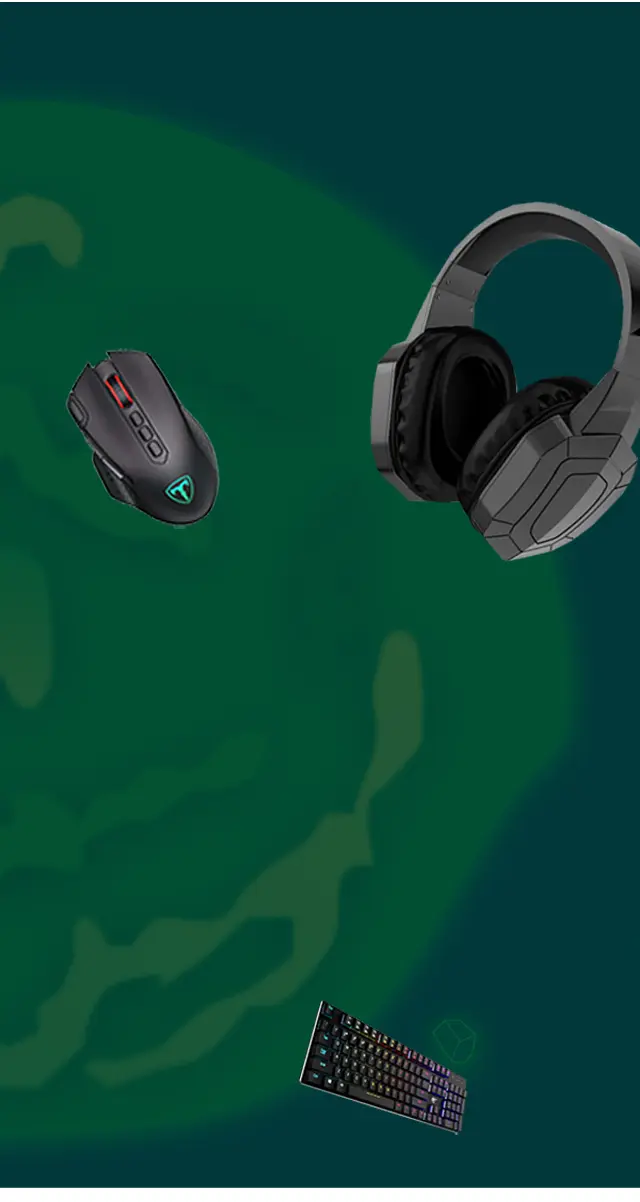
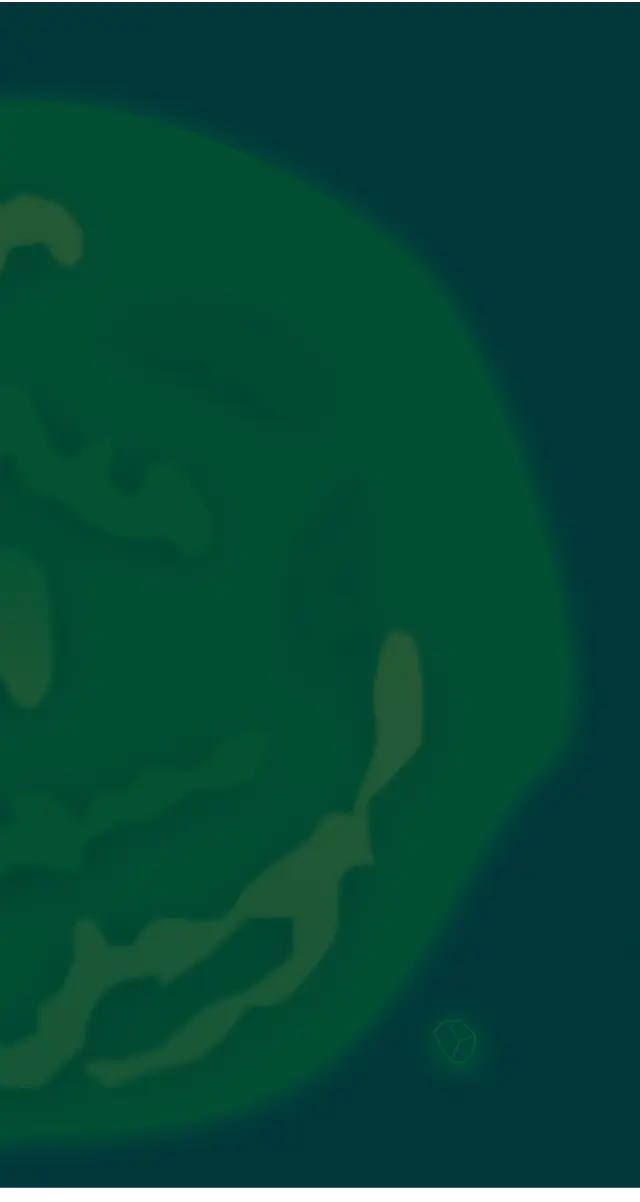
f b

Changed region(s): [[0.5625, 0.1539, 1.0, 0.4925], [0.0938, 0.277, 0.3438, 0.4617], [0.4688, 0.8311, 0.75, 0.9542]]

diff --git a/css/main.min.css b/css/main.min.css
@@ -1,1 +1,1 @@
-.container{margin-left:auto;margin-right:auto}body{font-family:"Roboto",sans-serif;font-weight:400;font-size:16px;line-height:19px;color:#fff;background-color:#01383a}.container{width:100%;padding-left:16px;padding-right:16px}@media screen and (min-width: 768px){.container .container{width:738px;padding-left:40px;padding-right:40px}}@media screen and (min-width: 1280px){.container .container{width:1280px}}p,h1,h2,h3,h4,h5,h6{margin:0}ul{margin:0;padding-left:0;list-style:none}img{display:block;max-width:100%;height:auto}a{text-decoration:none}.visually-hidden{position:absolute;white-space:nowrap;width:1px;height:1px;overflow:hidden;border:0;padding:0;clip:rect(0 0 0 0);-webkit-clip-path:inset(50%);clip-path:inset(50%);margin:-1px}.container{padding:0}.hero{width:320px;height:100vh;text-align:center;padding-top:284px;padding-left:36px}@media screen and (min-width: 480px){.hero{width:480px}}@media screen and (min-width: 768px){.hero{width:768px;text-align:left;padding-top:190px;padding-left:20px}}@media screen and (min-width: 1280px){.hero{width:1280px;padding-top:280px;padding-left:110px}}.background{width:100vw;height:100hw;background-color:rgba(0,0,0,0);background-repeat:no-repeat;background-size:60px 99px,150px 186px,88px 42px,cover;-webkit-transform:rotate(-29deg),rotate(28deg),rotate(24deg),0;transform:rotate(-29deg),rotate(28deg),rotate(24deg),0;background-position:162px 16px,56px 140px,394px 150px,center;background-image:url("../images/main/mouse-1x.webp"),url("../images/main/headphones-1x.webp"),url("../images/main/pckeyboard-1x.webp"),url("../images/main/hero-mob-1x.webp")}@media screen and (min-device-pixel-ratio: 2),screen and (-webkit-min-device-pixel-ratio: 2),screen and (min-resolution: 192dpi),screen and (min-resolution: 2dppx){.background{background-image:url("../images/main/mouse-2x.webp"),url("../images/main/headphones-2x.webp"),url("../images/main/pckeyboard-2x.webp"),url("../images/main/hero-mob-2x.webp")}}@media screen and (min-width: 768px){.background{width:100vw;height:100hw;background-size:100px 165px,180px 223px,143px 69px,cover;-webkit-transform:rotate(-31.92deg),rotate(10.77deg),rotate(21.68deg),0;transform:rotate(-31.92deg),rotate(10.77deg),rotate(21.68deg),0;background-position:41px 68.87px,195px 400px,615px 421px,center;background-image:url("../images/main/mouse-1x.webp"),url("../images/main/headphones-1x.webp"),url("../images/main/pckeyboard-1x.webp"),url("../images/main/hero-tab-1x.webp")}}@media screen and (min-width: 768px)and (min-device-pixel-ratio: 2),screen and (min-width: 768px)and (-webkit-min-device-pixel-ratio: 2),screen and (min-width: 768px)and (min-resolution: 192dpi),screen and (min-width: 768px)and (min-resolution: 2dppx){.background{background-image:url("../images/main/mouse-2x.webp"),url("../images/main/headphones-2x.webp"),url("../images/main/pckeyboard-2x.webp"),url("../images/main/hero-tab-2x.webp")}}@media screen and (min-width: 1200px){.background{width:1280px;background-size:133px 220px,270px 335px,230px 111px,cover;-webkit-transform:rotate(-34deg),rotate(18deg),rotate(30deg),0;transform:rotate(-34deg),rotate(18deg),rotate(30deg),0;background-position:205px 589px,300px 829px,567px 578px,center;background-image:url("../images/main/mouse-1x.webp"),url("../images/main/headphones-1x.webp"),url("../images/main/pckeyboard-1x.webp"),url("../images/main/hero-1x.webp")}}@media screen and (min-width: 1200px)and (min-device-pixel-ratio: 2),screen and (min-width: 1200px)and (-webkit-min-device-pixel-ratio: 2),screen and (min-width: 1200px)and (min-resolution: 192dpi),screen and (min-width: 1200px)and (min-resolution: 2dppx){.background{background-image:url("../images/main/mouse-2x.webp"),url("../images/main/headphones-2x.webp"),url("../images/main/pckeyboard-2x.webp"),url("../images/main/hero-2x.webp")}}.title{width:270px;height:114px;font-weight:600;font-size:32px;line-height:1.1875;color:#fff;margin-left:auto;margin-right:auto}@media screen and (min-width: 768px){.title{width:399px;height:198px;font-weight:600;font-size:56px;line-height:1.0714285714;margin-left:20px;margin-right:auto}}@media screen and (min-width: 1280px){.title{width:515px;height:225px;font-weight:600;font-size:64px;line-height:1.171875}}.titile-one{display:inline}@media screen and (min-width: 768px){.titile-one{display:none}}.titile-two{display:none}@media screen and (min-width: 768px){.titile-two{display:inline}}.link{display:-webkit-box;display:-ms-flexbox;display:flex;-webkit-box-orient:horizontal;-webkit-box-direction:normal;-ms-flex-direction:row;flex-direction:row;-webkit-box-pack:center;-ms-flex-pack:center;justify-content:center;-webkit-box-align:center;-ms-flex-align:center;align-items:center;gap:10px;width:173px;height:51px;border-radius:16px;border:none;background-color:#86e543;padding:16px 0;margin-top:25px;margin-left:auto;margin-right:auto;margin-bottom:102px;font-weight:700;font-size:16px;line-height:1.1875;text-transform:uppercase;color:#01383a}@media screen and (min-width: 768px){.link{font-weight:700;font-size:18px;line-height:1.1666666667;width:173px;height:51px;margin-top:64px;margin-left:20px;margin-bottom:128px}}@media screen and (min-width: 1280px){.link{font-weight:700;font-size:28px;line-height:1.0714285714;width:306px;height:70px;margin-top:40px;margin-left:50px;margin-bottom:209px}}/*# sourceMappingURL=main.min.css.map */
+.container{margin-left:auto;margin-right:auto}body{font-family:"Roboto",sans-serif;font-weight:400;font-size:16px;line-height:19px;color:#fff;background-color:#01383a}.container{width:100%;padding-left:16px;padding-right:16px}@media screen and (min-width: 768px){.container .container{width:738px;padding-left:40px;padding-right:40px}}@media screen and (min-width: 1280px){.container .container{width:1280px}}p,h1,h2,h3,h4,h5,h6{margin:0}ul{margin:0;padding-left:0;list-style:none}img{display:block;max-width:100%;height:auto}a{text-decoration:none}.visually-hidden{position:absolute;white-space:nowrap;width:1px;height:1px;overflow:hidden;border:0;padding:0;clip:rect(0 0 0 0);-webkit-clip-path:inset(50%);clip-path:inset(50%);margin:-1px}.container{padding:0}.hero{width:320px;height:100vh;text-align:center;padding-top:284px;padding-left:36px}@media screen and (min-width: 480px){.hero{width:480px}}@media screen and (min-width: 768px){.hero{width:768px;text-align:left;padding-top:190px;padding-left:20px}}@media screen and (min-width: 1280px){.hero{width:1280px;padding-top:280px;padding-left:110px}}.background{width:100vw;height:100hw;background-color:rgba(0,0,0,0);background-repeat:no-repeat;background-size:60px 99px,150px 186px,88px 42px,cover;-webkit-transform:rotate(-29deg),rotate(28deg),rotate(24deg),0;transform:rotate(-29deg),rotate(28deg),rotate(24deg),0;background-position:16px 162px,140px 56px,150px 394px,center;background-image:url("../images/main/mouse-1x.webp"),url("../images/main/headphones-1x.webp"),url("../images/main/pckeyboard-1x.webp"),url("../images/main/hero-mob-1x.webp")}@media(min-device-pixel-ratio: 2),(-webkit-min-device-pixel-ratio: 2),(min-resolution: 192dpi),(min-resolution: 2dppx){.background{background-image:url(../images/hero-main-480px@2x.webp);background-image:url("../images/main/mouse-2x.webp"),url("../images/main/headphones-2x.webp"),url("../images/main/pckeyboard-2x.webp"),url("../images/main/hero-mob-2x.webp")}}@media screen and (min-width: 768px){.background{width:100vw;height:100hw;background-size:100px 165px,180px 223px,143px 69px,cover;-webkit-transform:rotate(-31.92deg),rotate(10.77deg),rotate(21.68deg),0;transform:rotate(-31.92deg),rotate(10.77deg),rotate(21.68deg),0;background-position:68.87px 41px,400px 195px,421px 615px,center;background-image:url("../images/main/mouse-1x.webp"),url("../images/main/headphones-1x.webp"),url("../images/main/pckeyboard-1x.webp"),url("../images/main/hero-tab-1x.webp")}}@media screen and (min-width: 768px)and (min-device-pixel-ratio: 2),screen and (min-width: 768px)and (-webkit-min-device-pixel-ratio: 2),screen and (min-width: 768px)and (min-resolution: 192dpi),screen and (min-width: 768px)and (min-resolution: 2dppx){.background{background-image:url(../images/hero-main-768px@2x.webp);background-image:url("../images/main/mouse-2x.webp"),url("../images/main/headphones-2x.webp"),url("../images/main/pckeyboard-2x.webp"),url("../images/main/hero-tab-2x.webp")}}@media screen and (min-width: 1280px){.background{width:1280px;background-size:133px 220px,270px 335px,230px 111px,cover;-webkit-transform:rotate(-34deg),rotate(18deg),rotate(30deg),0;transform:rotate(-34deg),rotate(18deg),rotate(30deg),0;background-position:589px 205px,829px 300px,578px 567px,center;background-image:url("../images/main/mouse-1x.webp"),url("../images/main/headphones-1x.webp"),url("../images/main/pckeyboard-1x.webp"),url("../images/main/hero-1x.webp")}}@media screen and (min-width: 1280px)and (min-device-pixel-ratio: 2),screen and (min-width: 1280px)and (-webkit-min-device-pixel-ratio: 2),screen and (min-width: 1280px)and (min-resolution: 192dpi),screen and (min-width: 1280px)and (min-resolution: 2dppx){.background{background-image:url(../images/hero-main-1280px@2x.webp);background-image:url("../images/main/mouse-2x.webp"),url("../images/main/headphones-2x.webp"),url("../images/main/pckeyboard-2x.webp"),url("../images/main/hero-2x.webp")}}.title{width:270px;height:114px;font-weight:600;font-size:32px;line-height:1.1875;color:#fff;margin-left:auto;margin-right:auto}@media screen and (min-width: 768px){.title{width:399px;height:198px;font-weight:600;font-size:56px;line-height:1.0714285714;margin-left:20px;margin-right:auto}}@media screen and (min-width: 1280px){.title{width:515px;height:225px;font-weight:600;font-size:64px;line-height:1.171875}}.titile-one{display:inline}@media screen and (min-width: 768px){.titile-one{display:none}}.titile-two{display:none}@media screen and (min-width: 768px){.titile-two{display:inline}}.link{display:-webkit-box;display:-ms-flexbox;display:flex;-webkit-box-orient:horizontal;-webkit-box-direction:normal;-ms-flex-direction:row;flex-direction:row;-webkit-box-pack:center;-ms-flex-pack:center;justify-content:center;-webkit-box-align:center;-ms-flex-align:center;align-items:center;gap:10px;width:173px;height:51px;border-radius:16px;border:none;background-color:#86e543;padding:16px 0;margin-top:25px;margin-left:auto;margin-right:auto;margin-bottom:102px;font-weight:700;font-size:16px;line-height:1.1875;text-transform:uppercase;color:#01383a}@media screen and (min-width: 768px){.link{font-weight:700;font-size:18px;line-height:1.1666666667;width:173px;height:51px;margin-top:64px;margin-left:20px;margin-bottom:128px}}@media screen and (min-width: 1280px){.link{font-weight:700;font-size:28px;line-height:1.0714285714;width:306px;height:70px;margin-top:40px;margin-left:50px;margin-bottom:209px}}/*# sourceMappingURL=main.min.css.map */

diff --git a/sass/layout/_hero.scss b/sass/layout/_hero.scss
@@ -34,19 +34,19 @@
     background-repeat: no-repeat;
     background-size: 60px 99px, 150px 186px, 88px 42px, cover;
     transform: rotate(-29deg), rotate(28deg), rotate(24deg), 0;
-    background-position: 162px 16px, 56px 140px, 394px 150px, center;
+    background-position: 16px 162px, 140px 56px, 150px 394px, center;
     background-image:
         url('../images/main/mouse-1x.webp'),
         url('../images/main/headphones-1x.webp'),
         url('../images/main/pckeyboard-1x.webp'),
         url('../images/main/hero-mob-1x.webp');
 
-    @include retina {
-        background-image:
-            url('../images/main/mouse-2x.webp'),
-            url('../images/main/headphones-2x.webp'),
-            url('../images/main/pckeyboard-2x.webp'),
-            url('../images/main/hero-mob-2x.webp');
+    @include retina(hero-main, $mobile, webp) {
+        background-image: 
+        url('../images/#{main}/#{mouse-2x}.#{webp}'),
+        url('../images/#{main}/#{headphones-2x}.#{webp}'),
+        url('../images/#{main}/#{pckeyboard-2x}.#{webp}'),
+        url('../images/#{main}/#{hero-mob-2x}.#{webp}');
     }
 
     @media screen and (min-width: 768px) {
@@ -54,42 +54,43 @@
         height: 100hw;
         background-size: 100px 165px, 180px 223px, 143px 69px, cover;
         transform: rotate(-31.92deg), rotate(10.77deg), rotate(21.68deg), 0;
-        background-position: 41px 68.87px, 195px 400px, 615px 421px, center;
+        background-position: 68.87px 41px, 400px 195px, 421px 615px, center;
         background-image:
             url('../images/main/mouse-1x.webp'),
             url('../images/main/headphones-1x.webp'),
             url('../images/main/pckeyboard-1x.webp'),
             url('../images/main/hero-tab-1x.webp');
 
-        @include retina {
-            background-image:
-                url('../images/main/mouse-2x.webp'),
-                url('../images/main/headphones-2x.webp'),
-                url('../images/main/pckeyboard-2x.webp'),
-                url('../images/main/hero-tab-2x.webp');
+        @include retina(hero-main, $tablet, webp) {
+            background-image: 
+            url('../images/#{main}/#{mouse-2x}.#{webp}'),
+            url('../images/#{main}/#{headphones-2x}.#{webp}'),
+            url('../images/#{main}/#{pckeyboard-2x}.#{webp}'),
+            url('../images/#{main}/#{hero-tab-2x}.#{webp}');
         }
     }
 
-    @media screen and (min-width: 1200px) {
+    @media screen and (min-width: 1280px) {
         width: $desktop;
         // mix-blend-mode: luminosity;
         // opacity: 0.25;
         // filter: drop-shadow(0px 4px 25px #5EEC36);
         background-size: 133px 220px, 270px 335px, 230px 111px, cover;
         transform: rotate(-34deg), rotate(18deg), rotate(30deg), 0;
-        background-position: 205px 589px, 300px 829px, 567px 578px, center;
+        background-position: 589px 205px, 829px 300px, 578px 567px, center;
         background-image:
+            // url('../images/main/Vector8-1x.webp'),
             url('../images/main/mouse-1x.webp'),
             url('../images/main/headphones-1x.webp'),
             url('../images/main/pckeyboard-1x.webp'),
             url('../images/main/hero-1x.webp');
 
-        @include retina {
-            background-image:
-                url('../images/main/mouse-2x.webp'),
-                url('../images/main/headphones-2x.webp'),
-                url('../images/main/pckeyboard-2x.webp'),
-                url('../images/main/hero-2x.webp');
+        @include retina(hero-main, $desktop, webp) {
+            background-image: 
+            url('../images/#{main}/#{mouse-2x}.#{webp}'),
+            url('../images/#{main}/#{headphones-2x}.#{webp}'),
+            url('../images/#{main}/#{pckeyboard-2x}.#{webp}'),
+            url('../images/#{main}/#{hero-2x}.#{webp}');
         }
     }
 }

diff --git a/css/main.css b/css/main.css
@@ -110,11 +110,12 @@ a {
   background-size: 60px 99px, 150px 186px, 88px 42px, cover;
   -webkit-transform: rotate(-29deg), rotate(28deg), rotate(24deg), 0;
           transform: rotate(-29deg), rotate(28deg), rotate(24deg), 0;
-  background-position: 162px 16px, 56px 140px, 394px 150px, center;
+  background-position: 16px 162px, 140px 56px, 150px 394px, center;
   background-image: url("../images/main/mouse-1x.webp"), url("../images/main/headphones-1x.webp"), url("../images/main/pckeyboard-1x.webp"), url("../images/main/hero-mob-1x.webp");
 }
-@media screen and (min-device-pixel-ratio: 2), screen and (-webkit-min-device-pixel-ratio: 2), screen and (min-resolution: 192dpi), screen and (min-resolution: 2dppx) {
+@media (min-device-pixel-ratio: 2), (-webkit-min-device-pixel-ratio: 2), (min-resolution: 192dpi), (min-resolution: 2dppx) {
   .background {
+    background-image: url(../images/hero-main-480px@2x.webp);
     background-image: url("../images/main/mouse-2x.webp"), url("../images/main/headphones-2x.webp"), url("../images/main/pckeyboard-2x.webp"), url("../images/main/hero-mob-2x.webp");
   }
 }
@@ -125,27 +126,29 @@ a {
     background-size: 100px 165px, 180px 223px, 143px 69px, cover;
     -webkit-transform: rotate(-31.92deg), rotate(10.77deg), rotate(21.68deg), 0;
             transform: rotate(-31.92deg), rotate(10.77deg), rotate(21.68deg), 0;
-    background-position: 41px 68.87px, 195px 400px, 615px 421px, center;
+    background-position: 68.87px 41px, 400px 195px, 421px 615px, center;
     background-image: url("../images/main/mouse-1x.webp"), url("../images/main/headphones-1x.webp"), url("../images/main/pckeyboard-1x.webp"), url("../images/main/hero-tab-1x.webp");
   }
 }
 @media screen and (min-width: 768px) and (min-device-pixel-ratio: 2), screen and (min-width: 768px) and (-webkit-min-device-pixel-ratio: 2), screen and (min-width: 768px) and (min-resolution: 192dpi), screen and (min-width: 768px) and (min-resolution: 2dppx) {
   .background {
+    background-image: url(../images/hero-main-768px@2x.webp);
     background-image: url("../images/main/mouse-2x.webp"), url("../images/main/headphones-2x.webp"), url("../images/main/pckeyboard-2x.webp"), url("../images/main/hero-tab-2x.webp");
   }
 }
-@media screen and (min-width: 1200px) {
+@media screen and (min-width: 1280px) {
   .background {
     width: 1280px;
     background-size: 133px 220px, 270px 335px, 230px 111px, cover;
     -webkit-transform: rotate(-34deg), rotate(18deg), rotate(30deg), 0;
             transform: rotate(-34deg), rotate(18deg), rotate(30deg), 0;
-    background-position: 205px 589px, 300px 829px, 567px 578px, center;
+    background-position: 589px 205px, 829px 300px, 578px 567px, center;
     background-image: url("../images/main/mouse-1x.webp"), url("../images/main/headphones-1x.webp"), url("../images/main/pckeyboard-1x.webp"), url("../images/main/hero-1x.webp");
   }
 }
-@media screen and (min-width: 1200px) and (min-device-pixel-ratio: 2), screen and (min-width: 1200px) and (-webkit-min-device-pixel-ratio: 2), screen and (min-width: 1200px) and (min-resolution: 192dpi), screen and (min-width: 1200px) and (min-resolution: 2dppx) {
+@media screen and (min-width: 1280px) and (min-device-pixel-ratio: 2), screen and (min-width: 1280px) and (-webkit-min-device-pixel-ratio: 2), screen and (min-width: 1280px) and (min-resolution: 192dpi), screen and (min-width: 1280px) and (min-resolution: 2dppx) {
   .background {
+    background-image: url(../images/hero-main-1280px@2x.webp);
     background-image: url("../images/main/mouse-2x.webp"), url("../images/main/headphones-2x.webp"), url("../images/main/pckeyboard-2x.webp"), url("../images/main/hero-2x.webp");
   }
 }

diff --git a/sass/utils/_mixins.scss b/sass/utils/_mixins.scss
@@ -9,13 +9,14 @@
 //   }
 // }
 
-@mixin retina {
+@mixin retina($name, $width, $type) {
 
-    @media screen and (min-device-pixel-ratio: 2),
-    screen and (-webkit-min-device-pixel-ratio: 2),
-    screen and (min-resolution: 192dpi),
-    screen and (min-resolution: 2dppx) {
-        @content
+    @media (min-device-pixel-ratio: 2),
+    (-webkit-min-device-pixel-ratio: 2),
+    (min-resolution: 192dpi),
+    (min-resolution: 2dppx) {
+        background-image: url(../images/#{$name}-#{$width}@2x.#{$type});
+        @content;
     }
 }
 
